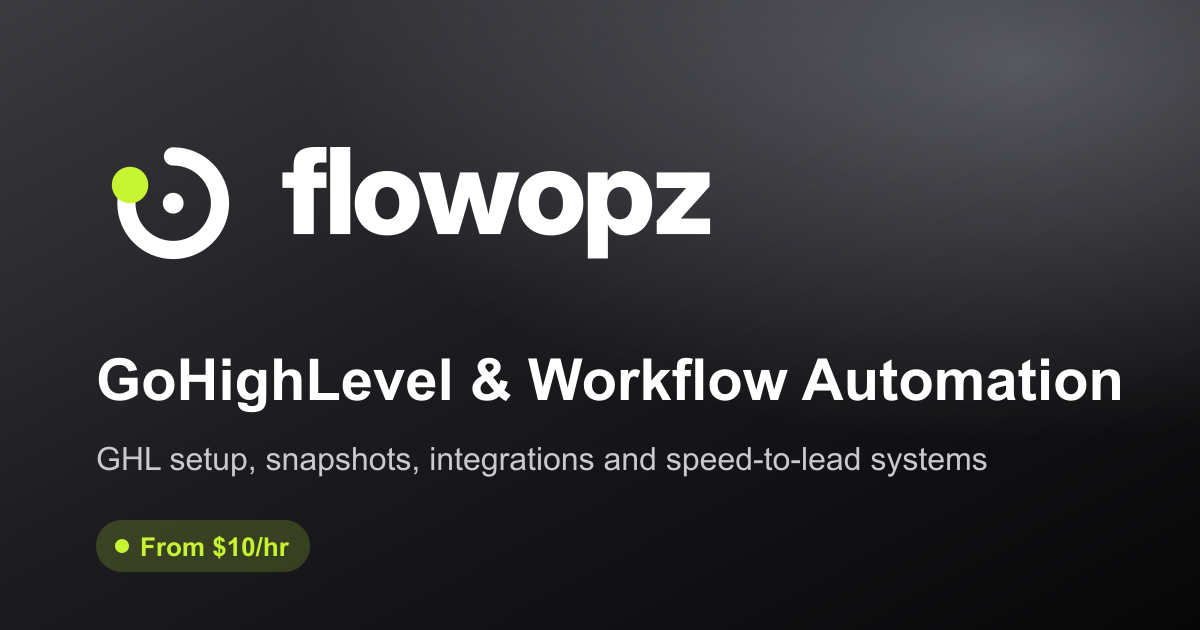
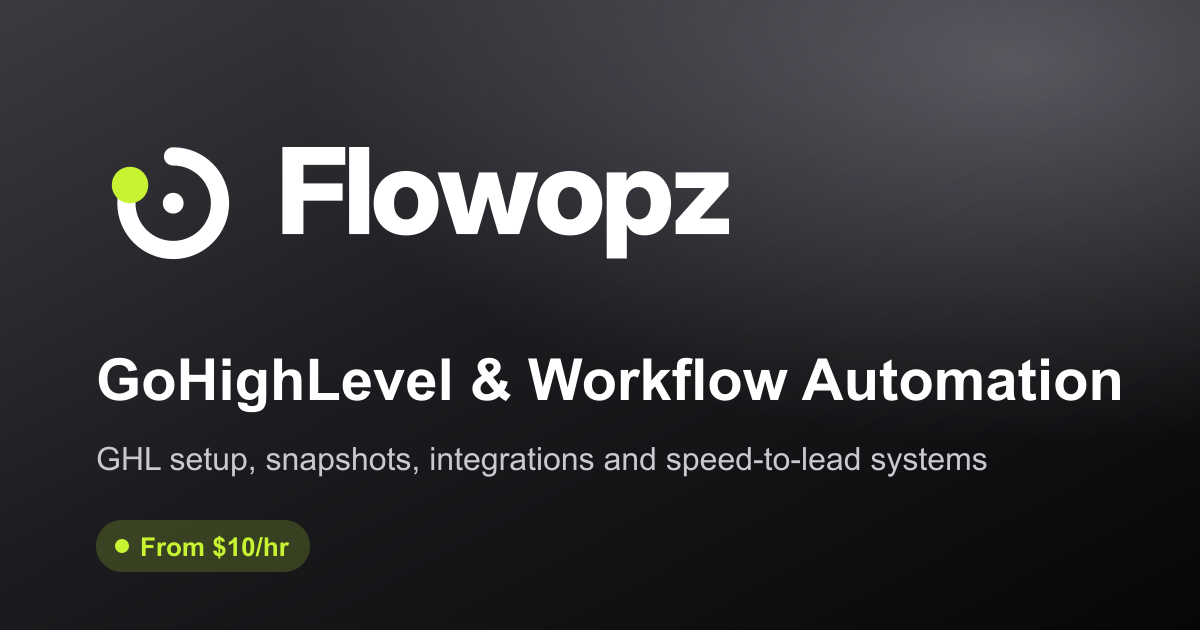
Use capital-F Flowopz wordmark and enlarge Why Choose label

Changed region(s): [[0.2158, 0.2111, 0.6167, 0.4222]]

diff --git a/src/styles/global.css b/src/styles/global.css
@@ -56,7 +56,7 @@ h1, h2, h3 { font-weight: 600; letter-spacing: -.045em; line-height: .98; }
 }
 .nav a { text-decoration: none; }
 .nav .logo { display: flex; flex: none; align-items: center; height: 34px; padding: 0 12px 0 10px; color: #fff; transition: color .5s; }
-.nav .logo svg { flex: none; width: 84px; height: 19px; }
+.nav .logo svg { flex: none; width: 86px; height: 19px; }
 .nav .logo .node { transition: stroke .5s; }
 .nav .l { padding: 8px 13px; border-radius: 99px; transition: background .3s, color .3s; }
 .nav .l:hover, .nav .l[aria-current] { background: rgba(255, 255, 255, .12); color: #fff; }
@@ -375,7 +375,7 @@ h1, h2, h3 { font-weight: 600; letter-spacing: -.045em; line-height: .98; }
 /* Work (how it works) */
 .work { background: var(--ink); color: #fff; }
 .work .pin-in { background: var(--ink); }
-.work .lbl { position: absolute; left: var(--pad); top: clamp(88px, 14vh, 130px); color: rgba(255, 255, 255, .66); }
+.work .lbl { position: absolute; left: var(--pad); top: clamp(88px, 14vh, 130px); color: rgba(255, 255, 255, .66); font-size: 14px; }
 .wtrack { position: absolute; left: 0; top: 50%; display: flex; gap: clamp(14px, 2vw, 28px); align-items: stretch; will-change: transform; margin-top: calc(var(--wh) / -2 + 20px); }
 .wk {
   position: relative; flex: none; width: var(--ww); height: var(--wh); border-radius: 22px; padding: 18px;
